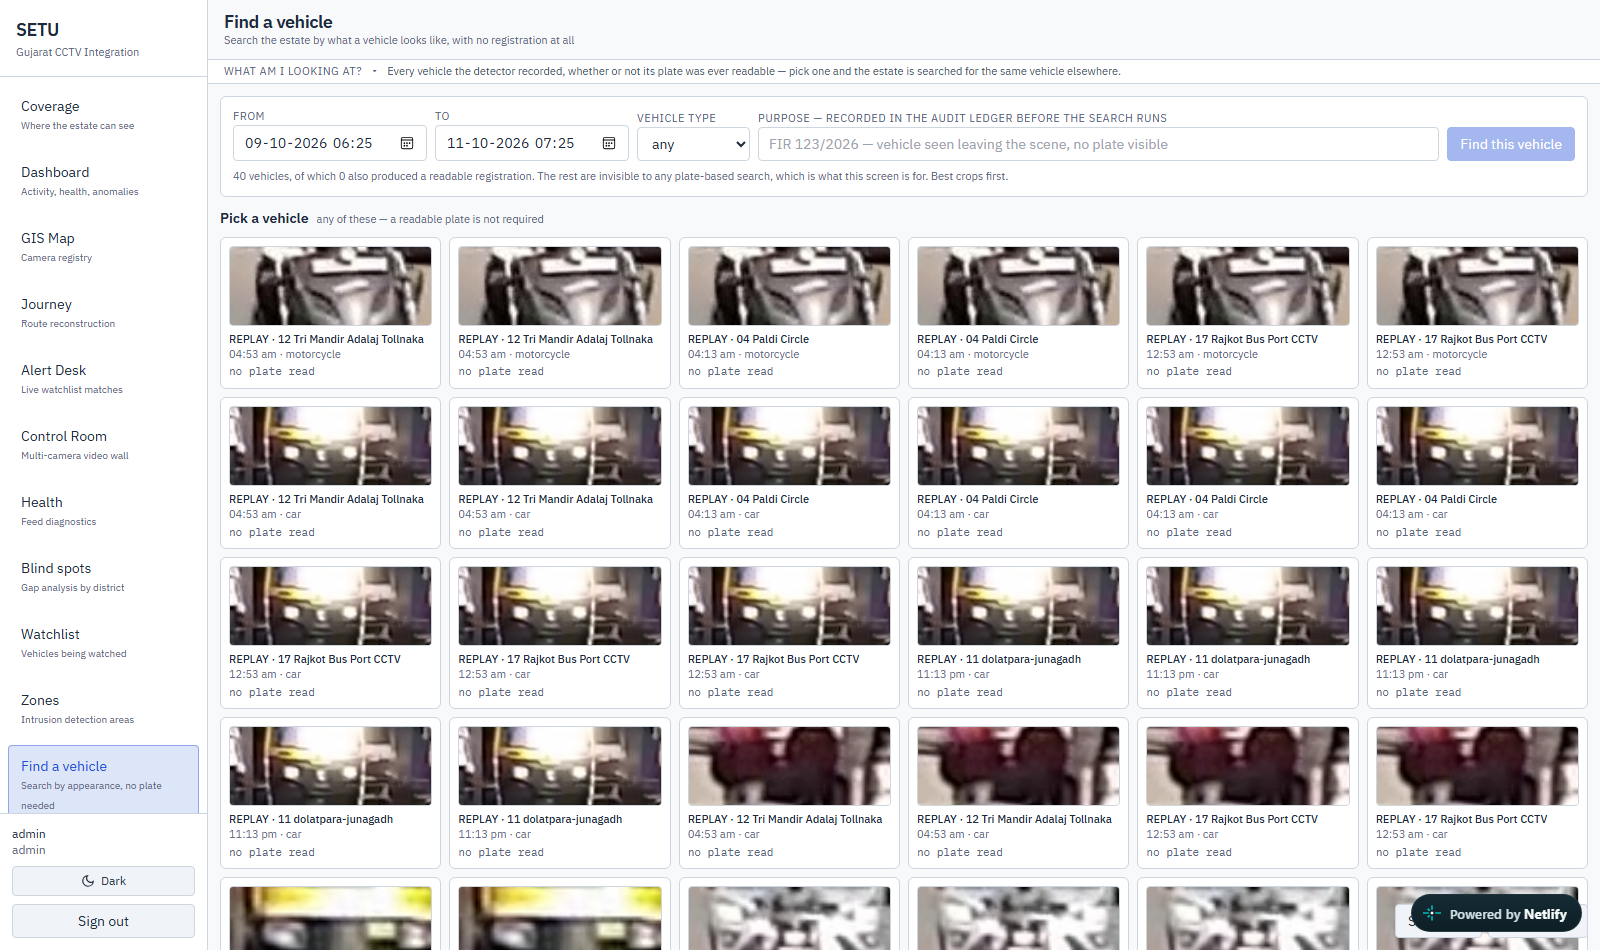
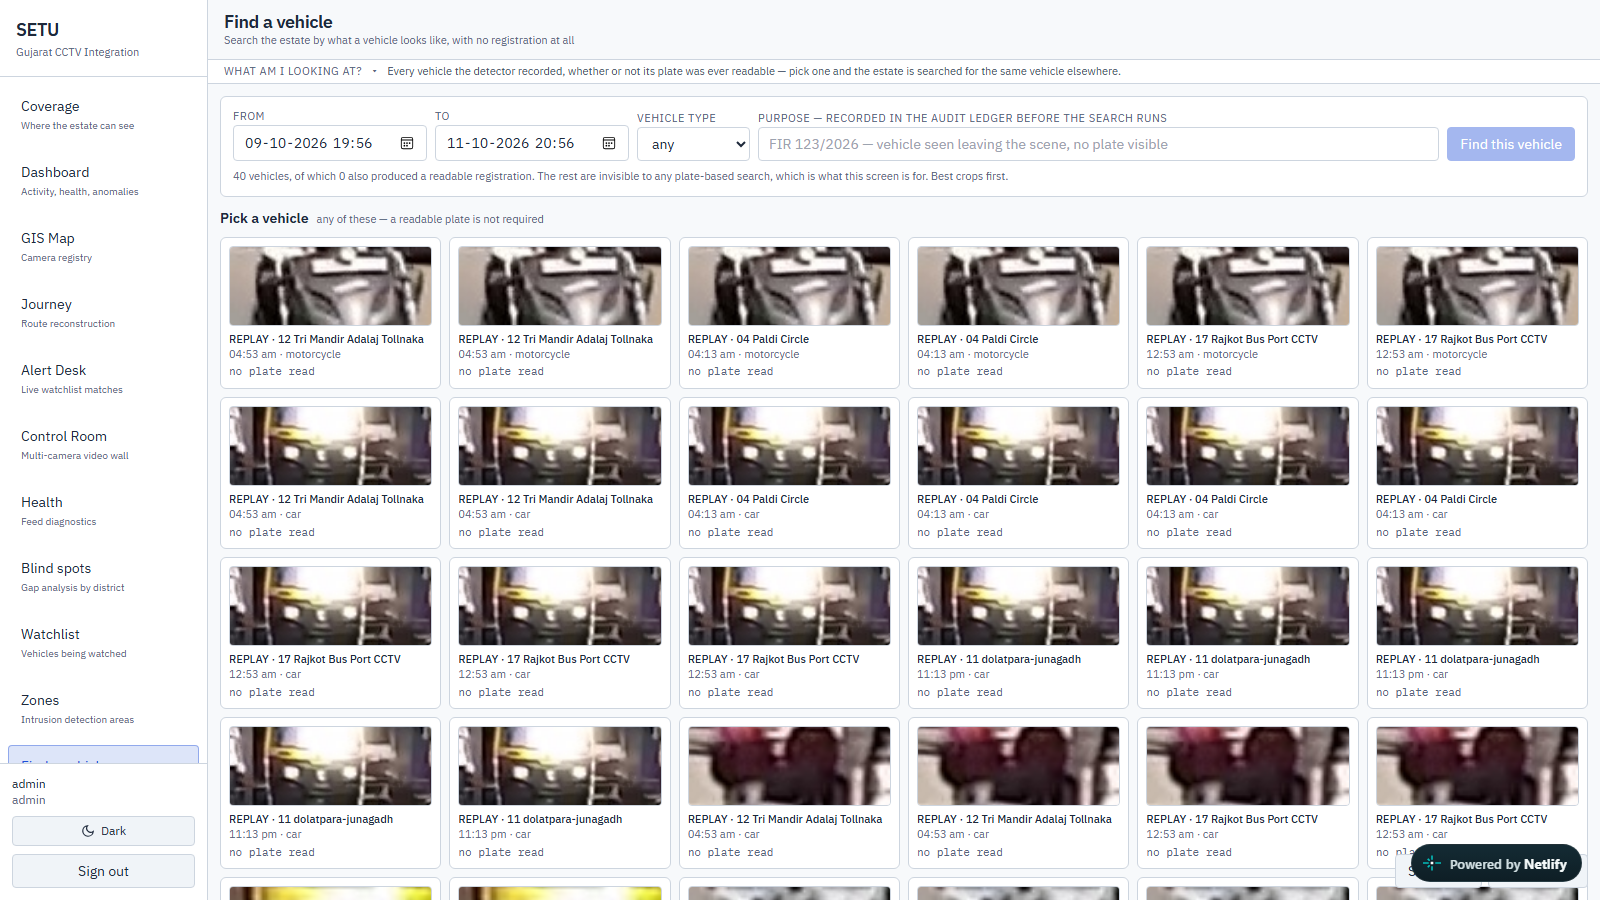
Everything working at once, for the first time, with the feeds live
The three things that had each been broken on their own turn are now all right together:
the bundle that makes Judge Mode one click, the rebase that moved the demonstration data
back inside the windows the console opens on, and a current access code that brings the
government feeds back.

So the full pass was run again, 24 screens against the deployed console. Every assertion
held and nothing returned 400 or above -- including, for the first time in this project,
the Control Room decoding live tiles with no unreachable banner.

The screenshot pack is replaced with that run, and its index no longer carries the
caveat about a dead gateway. The presentation clips live beside it but are gitignored:
101 MB of video recorded from a deployment is not source.

diff --git a/clips/README.md b/clips/README.md
@@ -1,0 +1,125 @@
+# Demonstration clips
+
+Screen recordings of the **live deployment** — `setu-gujarat.netlify.app` against the
+Render API. Not a mock-up and not a local instance: what the clip shows is what a judge
+opening the URL sees.
+
+H.264 in MP4, 1600×900, no audio, ~95 seconds each. PowerPoint plays them directly:
+**Insert → Video → This Device**, then **Start: Automatically**.
+
+Two things are done deliberately for a projected room: a blue cursor ring is drawn into
+the recording so the audience can follow what is being clicked, and **panels are zoomed
+while they are being discussed** — a dashboard tile that is legible on a laptop is not
+legible from the back of a hall.
+
+Run them in order. Each is one idea.
+
+---
+
+### 1 · `01-coverage-what-the-estate-sees.mp4`
+Coverage answers *where can the state actually see, and what can it do there*. The clip
+zooms the readiness legend, flies the map into Ahmedabad so the domes read as areas
+rather than dots, and steps through all four analytics modes.
+
+> *"Each camera is drawn as the ground it can actually see. They are domes, not cones,
+> because not one camera in this estate publishes a heading — a cone would claim an
+> orientation nobody surveyed."*
+
+### 2 · `02-dashboard-live-estate.mp4`
+Centralised monitoring, panel by panel: **40 vehicles seen against 20 plate reads**, an
+hourly rate and peak, the window switched to 7 days, class mix, camera health, anomalies,
+cameras needing attention.
+
+> *"We count what the detector saw, not what the OCR managed to read — and each panel
+> states its own limit. A pass at two cameras counts twice: these are traffic events, not
+> distinct vehicles."*
+
+### 3 · `03-USP-find-a-vehicle.mp4` — **the USP**
+> **40 vehicles, of which 0 also produced a readable registration.**
+
+> *"Not one vehicle on this estate can be found by a plate-based system. Every other
+> entrant's search returns nothing here. Ours returns all forty."*
+
+The purpose is typed into a field marked *recorded in the audit ledger before the search
+runs* — the reason is written down **before** any result exists. Then a vehicle is picked
+and the estate searched by appearance alone; every result is tagged `Candidate`.
+
+### 4 · `04-journey-trace-and-evidence.mp4`
+One click from the login screen gives **4 hops · 413.4 km · 340 minutes**. The clip zooms
+each hop card in turn — camera, timestamp, tier badge, ANPR confidence, position
+uncertainty, and the evidence crop itself — then the coverage-gap line and the signed
+export.
+
+> *"24 cameras on this route produced no detection — a coverage gap, not an absence of
+> the vehicle. And 8 cameras were excluded outright: no coordinate on record."*
+
+### 5 · `05-shape-of-this-movement-3d.mp4` — the signature view
+The same journey with **geography across and time upward**, orbited and then scrubbed.
+
+> *"A vertical segment is a vehicle that stayed put while time passed. A near-horizontal
+> one is distance crossed with almost no time — the signature of a cloned or misread
+> plate, not a fast car. Two routes parallel at the same altitude were travelling
+> together."*
+
+### 6 · `06-registry-alerts-health.mp4`
+The registry (Model 1, the mandatory foundation) with the map flown in and a camera
+selected; the alert desk with a match opened; and Health showing **declared frame rate
+against measured**.
+
+> *"The integration guide warns that cameras over-report their frame rate. We measure it
+> and show both — a camera claiming 25 fps and delivering 15 is reported, not trusted."*
+
+### 7 · `07-control-room-live.mp4`
+The multi-camera wall with **live government feeds playing** — 2×2, then 2×3, then a
+single full-screen tile. The footage carries the camera's own timestamp overlay, so there
+is no question about whether it is live.
+
+> *"These are the department's own cameras, streamed through the platform. The wall is
+> the operator's view; everything else in this demonstration is what the platform does
+> with what those cameras saw."*
+
+### 8 · `08-onboarding-camera-and-department.mp4`
+A camera connecting, with **every stage shown as it happens**: URL accepted → host
+reachable → transport chosen → stream opened → frame rate → first frame decoded → ANPR
+readiness → analytics assigned. Then a **department being added** — code, name, submitted
+— beside the counts already onboarded.
+
+> *"A failure that says only 'could not connect' is useless to whoever has to fix it.
+> This tells them whether it is a firewall, a password or a codec. And twenty-six
+> departments cannot each need an engineer on our side."*
+
+### 9 · `09-blindspots-watchlist-zones.mp4`
+Gap analysis by district, separated by remedy. The watchlist, where the **authorisation**
+for an alert lives and when it expires. Intrusion zones on the map.
+
+> *"A watch without a recorded reason and an expiry is surveillance, not policing."*
+
+### 10 · `10-scale-system-demo.mp4`
+The Scale Planner — 80,000 cameras, every constant traceable to a measurement, inputs
+editable so a judge can argue with it. Then the audit ledger **verified live**, and the
+own-feed clip frame-aligned to the reads it produced.
+
+> *"Each entry's hash includes the one before it. You cannot edit history here without
+> every later hash disagreeing — and the screen re-checks the whole chain on demand."*
+
+---
+
+## About the Control Room
+
+The gateway was down for most of this project's life, and the clip above was re-recorded
+once it came back. Two things have to be true for tiles to play: the current access code
+must be set on the API, and the organiser's watch-time quota must not be spent. Both held
+at recording time.
+
+If the wall is down on the day, it is worth showing rather than hiding. Each tile names
+the error, the camera and its last known status, and says that the registry entry,
+coordinates and recorded detections for that camera remain available. The control plane
+and the media plane fail independently by design, and every other screen in this pack
+reads from the database — which is why the running order leads with them.
+
+## If the venue network is hostile
+
+The basemap loads OpenStreetMap raster tiles. A filtered network can block them, leaving
+a grey background with the route and markers still drawn. **These clips are recorded video
+and play regardless** — that is their other job. Test on the venue network beforehand and
+carry a hotspot.

diff --git a/docs/screenshots/deployed/README.md b/docs/screenshots/deployed/README.md
@@ -1,6 +1,6 @@
 # The deployed console, in the order a judge meets it
 
-Captured **2026-10-11** against `https://setu-gujarat.netlify.app` and
+Captured **2026-10-11**, re-captured after the gateway came back against `https://setu-gujarat.netlify.app` and
 `https://setu-api-8m2h.onrender.com` — the live deployment, not a development
 instance — by a scripted walkthrough that asserted the **content** of each screen
 rather than that it rendered. A screenshot proves a page drew; an empty panel
@@ -27,7 +27,7 @@ screen would lie.
 | 10 | GIS Map | The camera registry — Model 1, the mandatory foundation |
 | 11 | Journey, empty | The designed empty state, and the form that refuses to run without a stated purpose |
 | 12 | Alert Desk | Watchlist matches, including the fuzzy match an exact system misses |
-| 13 | Control Room | The multi-camera wall. See the note below |
+| 09 | Control Room | The multi-camera wall, **with live government feeds decoding** |
 | 14 | Onboarding Studio | Paste a source, or import a department |
 | 15 | Scale Planner | 80,000 cameras, every constant's provenance, and the operational half |
 | 16 | Health | Declared against measured frame rate |
@@ -42,14 +42,12 @@ screen would lie.
 
 ## Three things in these images that are not defects
 
-**The Control Room tiles.** Live playback depends on the organiser's gateway, which
-carries a watch-time quota tied to the account rather than to the access code — a
-freshly issued code answers *"watch time limit reached"* just as an exhausted one
-does (`DISCOVERY.md` finding 28). The control plane and the media plane fail
-independently, and the screen says so on each tile: the registry entry, coordinates
-and recorded detections for that camera remain available, and only live playback is
-affected. Every other screen in this pack reads from the database and is unaffected,
-which is why the demonstration runbook leads with them.
+**The Control Room now plays.** The government gateway was down for most of this
+project and these tiles showed the failure state. With a current access code set on the
+API and the organiser's quota unspent, they decode live footage carrying the camera's own
+timestamp. Both conditions have to hold; if the wall is down on the day, each tile still
+names the error and states that the registry, coordinates and recorded detections remain
+available.
 
 **"0 of 40 produced a readable registration" on Find a vehicle.** That is not a
 failure of the screen; it is the argument the screen exists to make. Not one vehicle
